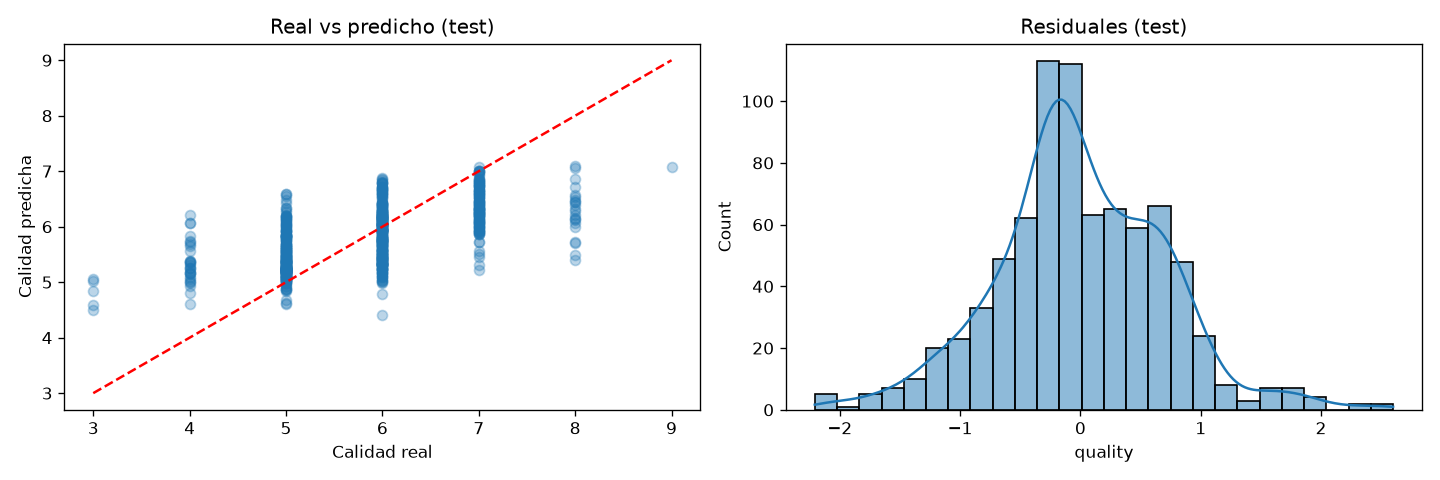
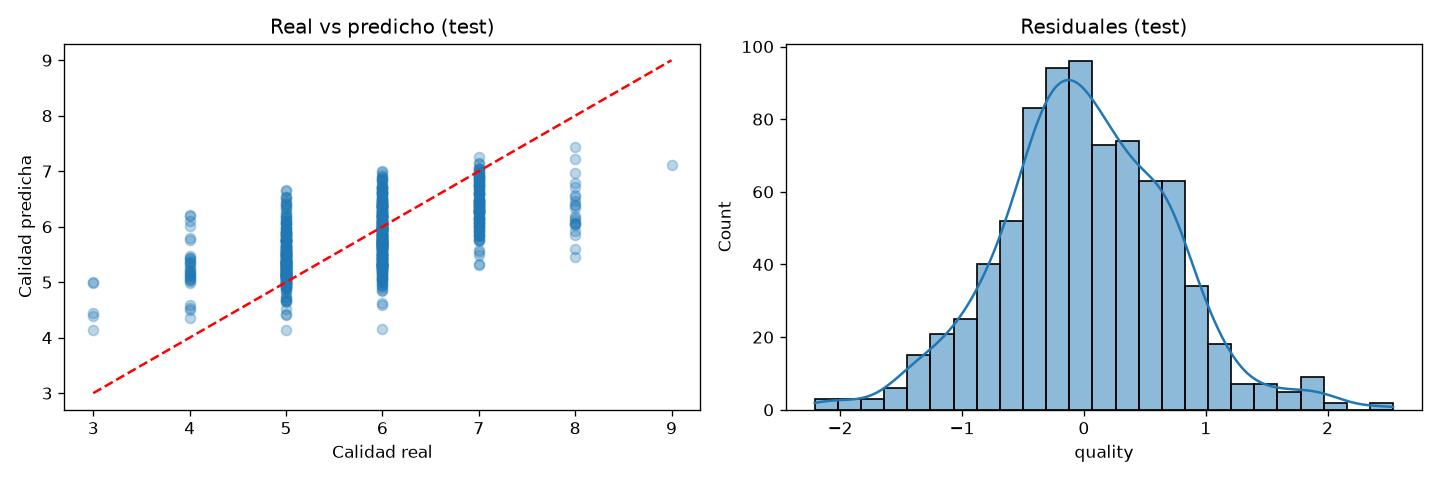
Add MLproject for mlflow run and detailed README
- MLproject + python_env.yaml: single parameterized entry point
- train.py: attach to mlflow run-created runs, -1 sentinel for max-depth,
  fit-intercept as true/false string, skip params already logged by MLproject
- README: project description, install, usage (direct and mlflow run),
  example runs, MLflow UI and reproducibility notes

diff --git a/wine_quality/modeling/train.py b/wine_quality/modeling/train.py
@@ -18,6 +18,7 @@ modeling/models.py (Factory).
 """
 
 import argparse
+import os
 
 import mlflow
 import pandas as pd
@@ -77,8 +78,8 @@ def parse_args(argv: list[str] | None = None) -> argparse.Namespace:
         "--max-depth",
         type=int,
         default=None,
-        help="[tree, rf, xgb] Profundidad máxima de cada árbol "
-        "(sin límite en tree/rf y 6 en xgb si se omite)",
+        help="[tree, rf, xgb] Profundidad máxima de cada árbol; -1 o no pasarlo = "
+        "default de la librería (sin límite en tree/rf, 6 en xgb)",
     )
     parser.add_argument(
         "--min-samples-leaf",
@@ -94,9 +95,10 @@ def parse_args(argv: list[str] | None = None) -> argparse.Namespace:
     )
     parser.add_argument(
         "--fit-intercept",
-        action=argparse.BooleanOptionalAction,
-        default=True,
-        help="[linear] Ajustar el término independiente",
+        choices=["true", "false"],
+        default="true",
+        help="[linear] Ajustar el término independiente "
+        "(string para ser compatible con los parámetros planos de MLproject)",
     )
     # --- preprocesamiento (también es parte del experimento) ---
     parser.add_argument(
@@ -129,7 +131,16 @@ def split_features_target(df: pd.DataFrame):
 
 
 def setup_mlflow() -> None:
-    """Tracking local en SQLite con artefactos bajo mlartifacts/ (como en la Act. 2)."""
+    """Configura el tracking según cómo se lanzó el script:
+
+    - `mlflow run`: el proceso padre YA creó la corrida (MLFLOW_RUN_ID en el
+      entorno) con su propio tracking URI/experimento; aquí no se toca nada y
+      start_run() simplemente se adhiere a esa corrida.
+    - Ejecución directa (`python -m ...`): tracking local en SQLite con
+      artefactos bajo mlartifacts/ (como en la Actividad 2).
+    """
+    if os.getenv("MLFLOW_RUN_ID"):
+        return
     mlflow.set_tracking_uri(MLFLOW_TRACKING_URI)
     if mlflow.get_experiment_by_name(EXPERIMENT_NAME) is None:
         mlflow.create_experiment(
@@ -142,11 +153,22 @@ def log_to_mlflow(params, sizes, results, fig_path, model, X_train) -> str:
     """Registra la corrida: parámetros, métricas, artefactos y el modelo entrenado."""
     run_name = f"{params['model']}_seed{params['seed']}"
     with mlflow.start_run(run_name=run_name) as run:
+        # El tag funciona también cuando la corrida la creó `mlflow run`
+        # (ahí run_name de start_run se ignora al adherirse a la corrida activa)
         mlflow.set_tags(
-            {"etapa": "experimentacion", "problema": "regression", "autor": "Yoguel Salazar"}
+            {
+                "mlflow.runName": run_name,
+                "etapa": "experimentacion",
+                "problema": "regression",
+                "autor": "Yoguel Salazar",
+            }
         )
-        # Parámetros: configuración efectiva (modelo + preprocesamiento) y datos
-        mlflow.log_params(params | sizes)
+        # Parámetros: configuración efectiva (modelo + preprocesamiento) y datos.
+        # `mlflow run` ya registró los parámetros del MLproject en la corrida
+        # (como strings crudos); MLflow prohíbe cambiarles el valor, así que
+        # solo se agregan las claves nuevas (model_class, n_train, etc.).
+        existing = mlflow.get_run(run.info.run_id).data.params
+        mlflow.log_params({k: v for k, v in (params | sizes).items() if k not in existing})
 
         # Métricas: mae/rmse/r2 por partición (modelo y referencia dummy)
         for col in results.columns:
@@ -181,10 +203,11 @@ def run_experiment(args: argparse.Namespace) -> pd.DataFrame:
     """Flujo completo: datos -> pipeline -> entrenamiento -> evaluación -> registro."""
     hyperparams = {
         "n_estimators": args.n_estimators,
-        "max_depth": args.max_depth,
+        # -1 (sentinela de MLproject) equivale a no pasarlo -> default de la librería
+        "max_depth": None if args.max_depth in (None, -1) else args.max_depth,
         "min_samples_leaf": args.min_samples_leaf,
         "learning_rate": args.learning_rate,
-        "fit_intercept": args.fit_intercept,
+        "fit_intercept": args.fit_intercept == "true",
     }
     params = used_params(args.model, args.seed, **hyperparams)
     params |= {"normalizer": args.normalizer, "scaler": args.scaler}

diff --git a/README.md b/README.md
@@ -4,62 +4,150 @@
     <img src="https://img.shields.io/badge/CCDS-Project%20template-328F97?logo=cookiecutter" />
 </a>
 
-Wine Quality experimentation with MLflow
+Código de experimentación base con MLflow para el dataset **Wine Quality** (UCI).
 
-## Project Organization
+**TC5061 – Operaciones de Aprendizaje Automático (MLOps)** · Actividad 3
+**Autor:** Victor Yoguel Salazar Alanis · A01797950 · Tecnológico de Monterrey
 
-```
-├── LICENSE            <- Open-source license if one is chosen
-├── Makefile           <- Makefile with convenience commands like `make data` or `make train`
-├── README.md          <- The top-level README for developers using this project.
-├── data
-│   ├── external       <- Data from third party sources.
-│   ├── interim        <- Intermediate data that has been transformed.
-│   ├── processed      <- The final, canonical data sets for modeling.
-│   └── raw            <- The original, immutable data dump.
-│
-├── docs               <- A default mkdocs project; see www.mkdocs.org for details
-│
-├── models             <- Trained and serialized models, model predictions, or model summaries
-│
-├── notebooks          <- Jupyter notebooks. Naming convention is a number (for ordering),
-│                         the creator's initials, and a short `-` delimited description, e.g.
-│                         `1.0-jqp-initial-data-exploration`.
-│
-├── pyproject.toml     <- Project configuration file with package metadata for 
-│                         wine_quality and configuration for tools like black
-│
-├── references         <- Data dictionaries, manuals, and all other explanatory materials.
-│
-├── reports            <- Generated analysis as HTML, PDF, LaTeX, etc.
-│   └── figures        <- Generated graphics and figures to be used in reporting
-│
-├── requirements.txt   <- The requirements file for reproducing the analysis environment, e.g.
-│                         generated with `pip freeze > requirements.txt`
-│
-├── setup.cfg          <- Configuration file for flake8
-│
-└── wine_quality   <- Source code for use in this project.
-    │
-    ├── __init__.py             <- Makes wine_quality a Python module
-    │
-    ├── config.py               <- Store useful variables and configuration
-    │
-    ├── dataset.py              <- Scripts to download or generate data
-    │
-    ├── features.py             <- Code to create features for modeling
-    │
-    ├── modeling                
-    │   ├── __init__.py 
-    │   ├── predict.py          <- Code to run model inference with trained models          
-    │   └── train.py            <- Code to train models
-    │
-    └── plots.py                <- Code to create visualizations
+## ¿Qué hace este proyecto?
+
+Convierte el modelo base entrenado en el notebook de la Actividad 2 en **código de
+experimentación reutilizable**: un script de entrenamiento parametrizado por línea de
+comandos e instrumentado con **MLflow Tracking**. Cada corrida registra sus
+hiperparámetros, métricas (MAE, RMSE, R² en train/val/test), artefactos (figura de
+evaluación y tabla de métricas) y el pipeline entrenado, de modo que cualquier
+configuración es reproducible y comparable desde la interfaz de MLflow.
+
+- **Problema:** regresión de la calidad del vino (`quality`, 3–9) a partir de 11
+  variables fisicoquímicas y el tipo de vino (tinto/blanco).
+- **Datos:** [Wine Quality (UCI)](https://doi.org/10.24432/C56S3T); los CSV usan `;`
+  como separador y se combinan en un solo dataset con la columna `tipo`.
+- **Flujo:** carga → limpieza (duplicados fuera antes de partir) → partición 70/15/15
+  estratificada → pipeline único (imputación → Yeo-Johnson → estandarización → one-hot
+  → modelo) ajustado SOLO con train → evaluación → registro en MLflow.
+- **Modelos disponibles:** `linear` (LinearRegression), `tree` (DecisionTree),
+  `rf` (RandomForest) y `xgb` (XGBoost), seleccionables por CLI mediante un registro
+  tipo *factory* ([`wine_quality/modeling/models.py`](wine_quality/modeling/models.py)):
+  cada modelo consume solo los hiperparámetros que le aplican e ignora el resto.
+
+## Instalación
+
+Requiere **Python 3.12**. Desde la raíz del proyecto:
+
+```powershell
+python -m venv .venv
+.venv\Scripts\activate          # en Linux/macOS: source .venv/bin/activate
+pip install -r requirements.txt
 ```
 
---------
+Coloca los datos crudos en `data/raw/` (no se versionan en git):
+`winequality-red.csv` y `winequality-white.csv`, descargados de UCI.
 
+## Cómo ejecutar el entrenamiento
+
+### Opción 1: script directo
+
+El script corre sin argumentos (defaults: `linear`, semilla 42):
+
+```powershell
+python -m wine_quality.modeling.train
+```
+
+Argumentos disponibles (`--help` muestra esta ayuda):
+
+| Argumento | Aplica a | Default | Descripción |
+|---|---|---|---|
+| `--model {linear,tree,rf,xgb}` | — | `linear` | Modelo a entrenar |
+| `--seed` | todos | `42` | Semilla: controla la partición y el modelo |
+| `--n-estimators` | rf, xgb | `200` | Número de árboles del ensamble |
+| `--max-depth` | tree, rf, xgb | `-1` | Profundidad máxima (`-1` = default de la librería) |
+| `--min-samples-leaf` | tree, rf | `1` | Mínimo de muestras por hoja |
+| `--learning-rate` | xgb | `0.1` | Tasa de aprendizaje del boosting |
+| `--fit-intercept {true,false}` | linear | `true` | Ajustar término independiente |
+| `--normalizer {yeo-johnson,none}` | preprocesamiento | `yeo-johnson` | Normalización de numéricas |
+| `--scaler {standard,minmax,none}` | preprocesamiento | `standard` | Escalado de numéricas |
+
+Los hiperparámetros que no aplican al modelo elegido se ignoran (y no se registran),
+así la tabla comparativa de MLflow queda limpia.
+
+### Opción 2: `mlflow run` (MLproject)
+
+```powershell
+$env:MLFLOW_TRACKING_URI = "sqlite:///mlflow.db"
+mlflow run . --env-manager local --experiment-name TC5061_Actividad3_Experimentacion `
+    -P model=rf -P n_estimators=300 -P max_depth=12
+```
+
+`--env-manager local` reutiliza el entorno activo (`.venv`); sin esa bandera, MLflow
+construye un entorno nuevo a partir de [`python_env.yaml`](python_env.yaml).
+
+### Corridas de ejemplo (experimento comparativo)
+
+```powershell
+python -m wine_quality.modeling.train                                            # 1. baseline lineal
+python -m wine_quality.modeling.train --model tree --max-depth 8                 # 2. árbol
+python -m wine_quality.modeling.train --model rf   --n-estimators 100            # 3. bosque chico
+python -m wine_quality.modeling.train --model rf   --n-estimators 300 --max-depth 12   # 4. bosque grande
+python -m wine_quality.modeling.train --model xgb  --n-estimators 150 --learning-rate 0.08  # 5. boosting
+python -m wine_quality.modeling.train --model xgb  --n-estimators 300 --learning-rate 0.05  # 6. boosting fino
+```
+
+## Ver y comparar los experimentos
+
+El tracking es local: corridas en `mlflow.db` (SQLite) y artefactos en `mlartifacts/`.
+
+```powershell
+mlflow ui --backend-store-uri sqlite:///mlflow.db
+```
+
+Abre <http://127.0.0.1:5000>, entra al experimento
+**TC5061_Actividad3_Experimentacion**, selecciona corridas y usa **Compare** para
+contrastar hiperparámetros contra métricas (`val_rmse`, `val_mae`, `val_r2`...).
+Cada corrida incluye además la figura `figures/evaluation_test.png`, la tabla
+`metrics_table.json` y el pipeline entrenado como artefactos.
+
+## Reproducibilidad
+
+- **Semilla:** `--seed` controla la partición estratificada y la aleatoriedad del
+  modelo; se registra como parámetro en cada corrida. Misma configuración + misma
+  semilla ⇒ mismos resultados.
+- **Dependencias:** declaradas en [`requirements.txt`](requirements.txt).
+- **Datos inmutables:** `data/raw/` nunca se modifica; las particiones generadas se
+  guardan en `data/processed/` y todo lo aprendido (imputación, normalización,
+  escalado) vive dentro del pipeline, ajustado únicamente con train.
+- El notebook de la Actividad 2 se conserva en `notebooks/` **solo como registro del
+  EDA**; la lógica reproducible vive en el paquete `wine_quality/`.
+
+## Organización del proyecto
+
+```
+├── MLproject          <- Definición del proyecto MLflow (entry point `main` parametrizado)
+├── python_env.yaml    <- Entorno que usa `mlflow run` si no se pasa --env-manager local
+├── Makefile           <- Comandos de conveniencia del template CCDS
+├── README.md          <- Este archivo
+├── requirements.txt   <- Dependencias del proyecto
+├── pyproject.toml     <- Metadatos del paquete `wine_quality`
+│
+├── data               <- (no versionado) raw/ = CSV originales de UCI; processed/ = particiones
+├── models             <- Modelos serializados (los de MLflow viven en mlartifacts/)
+├── notebooks          <- Notebook de la Actividad 2 (EDA y modelo base; solo exploración)
+├── references         <- Material explicativo (investigación de patrones de diseño, etc.)
+├── reports            <- Salidas generadas
+│   └── figures        <- Figuras de evaluación de cada corrida
+│
+└── wine_quality       <- Código fuente del proyecto
+    ├── config.py              <- Rutas, constantes y configuración de MLflow
+    ├── dataset.py             <- Carga, limpieza y partición 70/15/15 estratificada
+    ├── features.py            <- Preprocesador configurable (imputación/normalización/escalado/one-hot)
+    ├── plots.py               <- Figura de evaluación (real vs predicho + residuales)
+    └── modeling
+        ├── models.py          <- Registro factory de modelos y sus hiperparámetros
+        ├── train.py           <- Script de entrenamiento parametrizado + MLflow Tracking
+        └── predict.py         <- (pendiente) inferencia batch con un modelo registrado
+```
 
 ## Declaración de uso de inteligencia artificial
 
-Anthropic. (2026). *Claude Code (basado en Claude Opus 5.5)* [Modelo de lenguaje grande], utilizado para edición de código y gestión del repositorio. https://claude.com/claude-code
+Anthropic. (2026). *Claude Code (basado en Claude Opus 5.5 y Claude Fable 5)* [Modelo de
+lenguaje grande], utilizado para edición de código y gestión del repositorio.
+https://claude.com/claude-code
